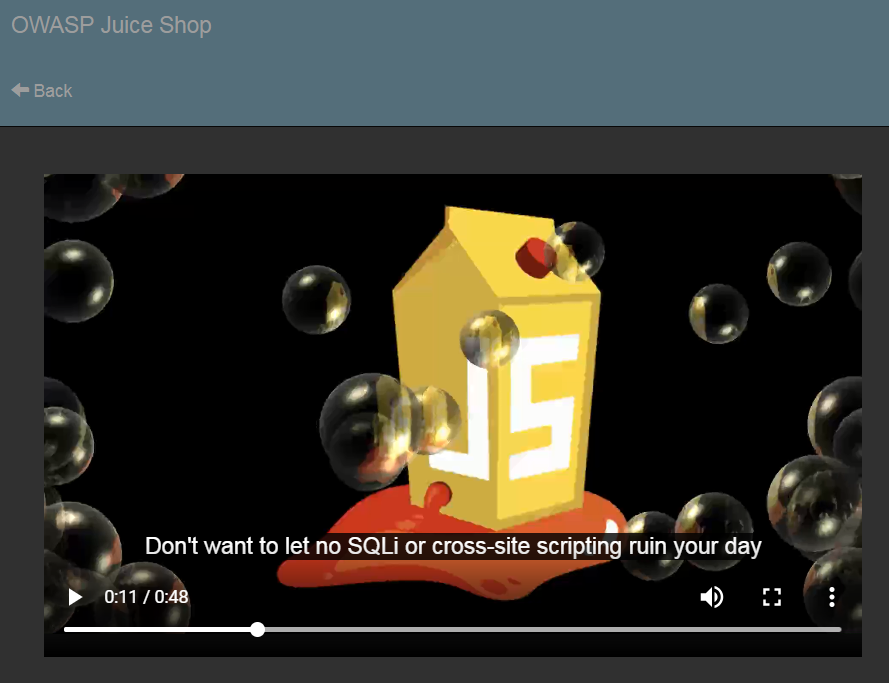
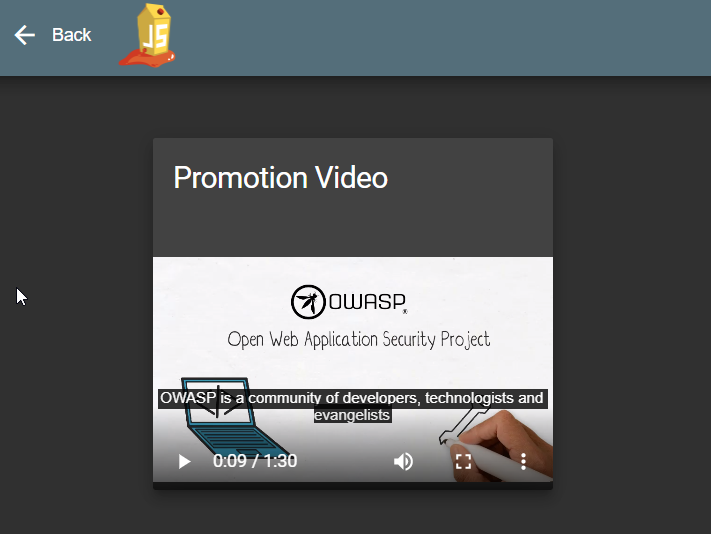
Updated promo video solution for new OWASP membership ad

diff --git a/appendix/solutions.md b/appendix/solutions.md
@@ -270,7 +270,8 @@ If the challenge is not immediately solved, you might have to
 * or log in with _Email_ `admin@juice-sh.op` and _Password_ `admin123`
   if you looked up the administrator's password hash
   `0192023a7bbd73250516f069df18b500` in a rainbow table after harvesting
-  the user data by [retrieving a list of all user credentials via SQL Injection](#retrieve-a-list-of-all-user-credentials-via-sql-injection).
+  the user data by
+  [retrieving a list of all user credentials via SQL Injection](#retrieve-a-list-of-all-user-credentials-via-sql-injection).
 
 ### Log in with MC SafeSearch's original user credentials
 
@@ -2840,12 +2841,14 @@ server's operation system and also their synonym command for `wget`.
 
 1. The author
    [tweeted about a new promotion video](https://twitter.com/bkimminich/status/1114621693299916800)
-   from his personal account, openly spoilering the URL
+   back in `v8.5.0` from his personal account, openly spoilering the URL
    <http://juice-shop-staging.herokuapp.com/promotion>
 
    ![Tweet promoting a new in-app promotion video](img/tweet_promotion.png)
-2. Visit <http://localhost:3000/promotion> to watch the video. You will
-   notice that it comes with subtitles enabled by default.
+2. Visit <http://localhost:3000/promotion> to watch the video, which is
+   no longer the one advertised in the Tweet but one advertising
+   [the benefits of an OWASP membership](https://owasp.org/membership/)!
+   You will notice that it comes with subtitles enabled by default.
 
    ![In-app promotion video](img/promo_video.png)
 3. Right-click and select _View Source_ on the page to learn that it
@@ -2853,10 +2856,10 @@ server's operation system and also their synonym command for `wget`.
    subtitles are directly embedded in the page itself.
 4. Inspecting the response for <http://localhost:3000/video> in the
    _Network_ tab of your DevTools shows an interesting header
-   `Content-Location: /assets/public/videos/JuiceShopJingle.mp4`
+   `Content-Location: /assets/public/videos/owasp_promo.mp4`
 5. Trying to access the video directly at
-   <http://localhost:3000/assets/public/videos/JuiceShopJingle.mp4>
-   works fine.
+   <http://localhost:3000/assets/public/videos/owasp_promo.mp4> works
+   fine.
 6. Getting a directory listing for
    <http://localhost:3000/assets/public/videos> does not work
    unfortunately.
@@ -2865,8 +2868,8 @@ server's operation system and also their synonym command for `wget`.
    guess would be that a corresponding `.vtt` file is available
    alongside the video.
 8. Accessing
-   <http://localhost:3000/assets/public/videos/JuiceShopJingle.vtt>
-   proves this assumption correct.
+   <http://localhost:3000/assets/public/videos/owasp_promo.vtt> proves
+   this assumption correct.
 9. As the subtitles are not loaded separately by the client, they must
    be embedded on the server side. If this embedding happens without
    proper safeguards, an XSS attack would be possible if the subtitles
@@ -2889,10 +2892,10 @@ server's operation system and also their synonym command for `wget`.
 14. This actual directory structure on the server is created by the
     AngularCLI tool when it compiles the application and looks as
     follows: `frontend/dist/frontend/assets/`.
-15. Prepare a ZIP file with a `JuiceShopJingle.vtt` inside that contains
-    the prescribed payload of ``</script><script>alert(`xss`)</script>``
+15. Prepare a ZIP file with a `owasp_promo.vtt` inside that contains the
+    prescribed payload of ``</script><script>alert(`xss`)</script>``
     with `zip exploit.zip
-    ../../frontend/dist/frontend/assets/public/video/JuiceShopJingle.vtt`
+    ../../frontend/dist/frontend/assets/public/video/owasp_promo.vtt`
     (on Linux).
 16. Upload the ZIP file on <http://localhost:3000/#/complain>.
 17. The challenge notification will not trigger immediately, as it
